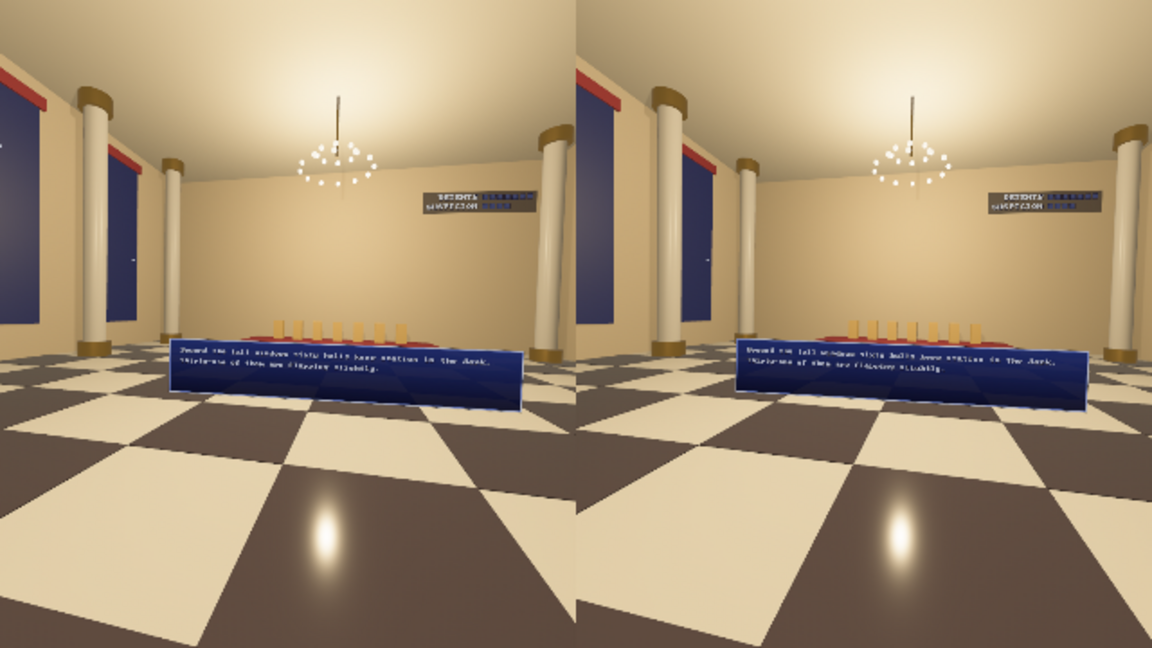
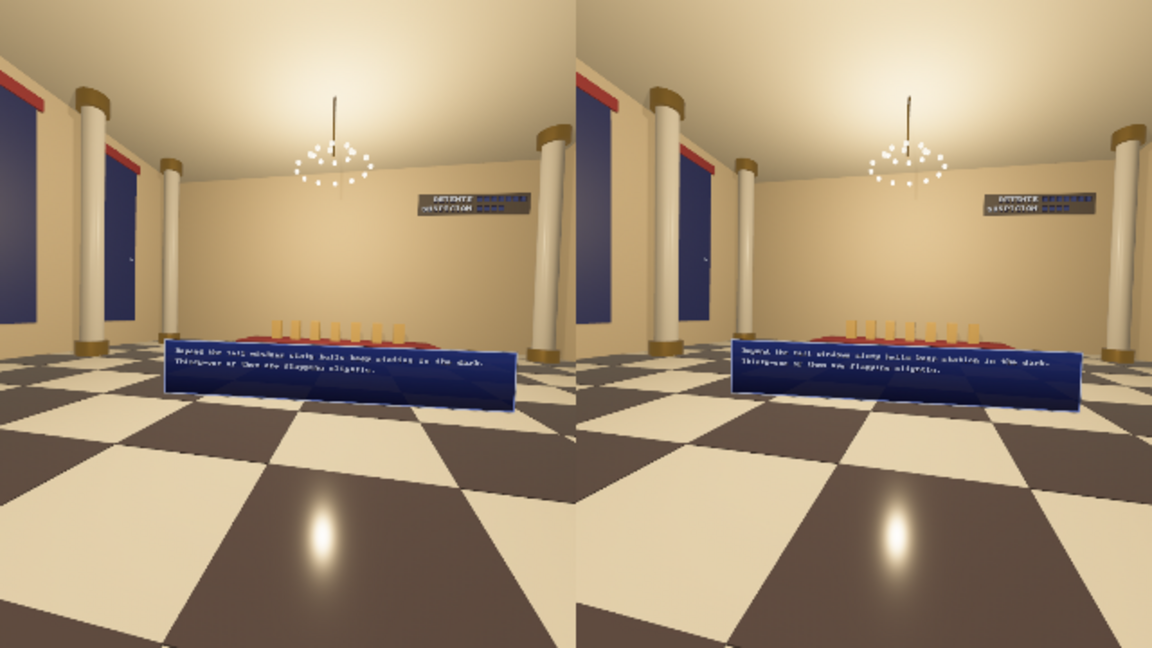
Fix what review found in VR
- the headset sets the pace: the desktop window no longer waits for the
  monitor, and the app keeps running when that window is not in front
- the player is where their head is: real steps move you through the
  place (and stop at walls), and turning pivots about you
- stick pushes and trigger pulls count once however slowly they are made
- a Vive trackpad counts only while pressed
- nothing is read from the headset after its session has stopped
- the text panel keeps clear of the wall you are facing
- --vr says why when it cannot be honoured; the check script stops only
  the service it started and fails on a black picture

Claude-Session: https://claude.ai/code/session_01TzcT1ZMQvoBCyJJ6E8kqD5

diff --git a/src/world3d.rs b/src/world3d.rs
@@ -64,6 +64,10 @@ struct Headset {
     down: bool,
     /// Where the eyes are in the world, for the cast to face.
     eye: Option<Vec3>,
+    /// Where the head is within the tracked space (its floor-level origin is the middle of the play area).
+    local: Vec3,
+    /// How far the head has really moved across the floor since the last frame, in the tracked space.
+    stepped: Vec2,
 }
 
 /// Where the player stands, for whatever carries the headset's viewpoint.
@@ -77,6 +81,8 @@ struct Body {
     fog: Option<(Color, f32, f32)>,
     /// The story's frame was redrawn this frame.
     redrawn: bool,
+    /// The walkable floor of the place.
+    floor: (Vec2, Vec2),
 }
 
 const EYE: f32 = 1.62;
@@ -170,8 +176,8 @@ pub fn run(game: Game, opts: Options) {
     app
         .init_resource::<Headset>()
         .init_resource::<Body>()
-        // keep the story moving when the window is not in front
-        .insert_resource(WinitSettings::game())
+        // keep the story moving when the window is not in front (a headset never waits for the window at all)
+        .insert_resource(if opts.vr && cfg!(feature = "vr") { WinitSettings { focused_mode: bevy::winit::UpdateMode::Continuous, unfocused_mode: bevy::winit::UpdateMode::Continuous } } else { WinitSettings::game() })
         .insert_resource(ClearColor(Color::BLACK))
         .insert_resource(AmbientLight { color: Color::WHITE, brightness: 300.0, ..default() })
         .insert_non_send_resource(runner)
@@ -331,7 +337,10 @@ fn frame(
         let (head_forward, head_right) = (Vec2::new(-facing.sin(), -facing.cos()), Vec2::new(facing.cos(), -facing.sin()));
         let stick_step = (head_forward * headset.stick.y + head_right * headset.stick.x).clamp_length_max(1.0) * 2.0;
         let at = Vec2::new(eye.0.translation.x, eye.0.translation.z);
-        let to = walk(place, at, (keys_step.normalize_or_zero() * speed + stick_step) * dt);
+        // real steps taken in the room move you through the place too (and stop at its walls)
+        let (sin, cos) = run.yaw.sin_cos();
+        let real_step = Vec2::new(headset.stepped.x * cos + headset.stepped.y * sin, -headset.stepped.x * sin + headset.stepped.y * cos);
+        let to = walk(place, at, (keys_step.normalize_or_zero() * speed + stick_step) * dt + real_step);
         // (no swaying in a headset: the world should move only when you do)
         let bob = if place.floating && !headset.active { (time.elapsed_secs() * 0.9).sin() * 0.06 } else { 0.0 };
         eye.0.translation = Vec3::new(to.x, place.spawn.y + bob, to.y);
@@ -340,6 +349,7 @@ fn frame(
         body.yaw = run.yaw;
         // how far the floor runs on ahead, to keep the text panel out of the walls
         let ahead = [(place.max.x - to.x, forward.x), (to.x - place.min.x, -forward.x), (place.max.y - to.y, forward.y), (to.y - place.min.y, -forward.y)];
+        body.floor = (place.min, place.max);
         body.reach = ahead.iter().filter(|(_, along)| *along > 1e-3).map(|(gap, along)| gap / along).fold(f32::MAX, f32::min);
     }
     body.in_place = run.place.is_some();
@@ -1033,12 +1043,22 @@ mod vr {
     use bevy_mod_xr::{camera::XrCamera, session::XrTrackingRoot};
     use bevy_xr_utils::xr_utils_actions::{ActiveSet, XRUtilsAction, XRUtilsActionSet, XRUtilsActionState, XRUtilsActionSystemSet, XRUtilsActionsPlugin, XRUtilsBinding};
 
-    #[derive(Component)]
-    struct WalkAction;
-    #[derive(Component)]
-    struct LookAction;
-    #[derive(Component)]
-    struct AdvanceAction;
+    use bevy::window::PresentMode;
+    use bevy_mod_xr::actions::ActionType;
+    use bevy_mod_xr::session::XrState;
+
+    /// What a controller input is for.
+    #[derive(Component, Clone, Copy, PartialEq)]
+    enum Use {
+        Walk,
+        Look,
+        Advance,
+        /// A trackpad counts only while it is pressed: a thumb resting on it is not a push.
+        WalkPad,
+        WalkPadPressed,
+        LookPad,
+        LookPadPressed,
+    }
     #[derive(Component)]
     struct Panel;
 
@@ -1046,7 +1066,11 @@ mod vr {
     const PANEL: (f32, f32, f32) = (2.0, 2.3, 1.72);
     const SNAP: f32 = PI / 6.0;
 
-    pub fn plugins(app: &mut App, window: WindowPlugin) {
+    pub fn plugins(app: &mut App, mut window: WindowPlugin) {
+        // the headset sets the pace: the desktop window must not make it wait for the monitor
+        if let Some(w) = &mut window.primary_window {
+            w.present_mode = PresentMode::AutoNoVsync;
+        }
         // without a runtime or a headset this falls back to ordinary rendering by itself
         app.add_plugins(add_xr_plugins(DefaultPlugins.build().disable::<PipelinedRenderingPlugin>()).set(window))
             .add_plugins(XRUtilsActionsPlugin)
@@ -1055,85 +1079,109 @@ mod vr {
     }
 
     fn actions(mut commands: Commands) {
+        const STICKS: [&str; 3] = ["/interaction_profiles/oculus/touch_controller", "/interaction_profiles/valve/index_controller", "/interaction_profiles/microsoft/motion_controller"];
+        const VIVE: &str = "/interaction_profiles/htc/vive_controller";
         let set = commands.spawn((XRUtilsActionSet { name: "story".into(), pretty_name: "Story and walking".into(), priority: 0 }, ActiveSet)).id();
-        let sticks = |hand: &str| -> Vec<(&'static str, String)> {
-            vec![
-                ("/interaction_profiles/oculus/touch_controller", format!("/user/hand/{}/input/thumbstick", hand)),
-                ("/interaction_profiles/valve/index_controller", format!("/user/hand/{}/input/thumbstick", hand)),
-                ("/interaction_profiles/microsoft/motion_controller", format!("/user/hand/{}/input/thumbstick", hand)),
-                ("/interaction_profiles/htc/vive_controller", format!("/user/hand/{}/input/trackpad", hand)),
-            ]
-        };
-        let mut triggers: Vec<(&'static str, String)> = Vec::new();
-        for hand in ["left", "right"] {
-            for profile in ["/interaction_profiles/oculus/touch_controller", "/interaction_profiles/valve/index_controller", "/interaction_profiles/microsoft/motion_controller", "/interaction_profiles/htc/vive_controller"] {
-                triggers.push((profile, format!("/user/hand/{}/input/trigger/value", hand)));
-            }
-            triggers.push(("/interaction_profiles/khr/simple_controller", format!("/user/hand/{}/input/select/click", hand)));
-        }
-        let mut make = |name: &str, label: &str, kind: bevy_mod_xr::actions::ActionType, bindings: Vec<(&'static str, String)>| {
-            let action = commands.spawn(XRUtilsAction { action_name: name.to_string().into(), localized_name: label.to_string().into(), action_type: kind }).id();
+        let mut make = |name: &str, label: &str, kind: ActionType, what: Use, bindings: Vec<(&'static str, String)>| {
+            let action = commands.spawn((XRUtilsAction { action_name: name.to_string().into(), localized_name: label.to_string().into(), action_type: kind }, what)).id();
             for (profile, binding) in bindings {
                 let b = commands.spawn(XRUtilsBinding { profile: profile.into(), binding: binding.into() }).id();
                 commands.entity(action).add_child(b);
             }
             commands.entity(set).add_child(action);
-            action
         };
-        let walk = make("walk", "Walk", bevy_mod_xr::actions::ActionType::Vector, sticks("left"));
-        let look = make("look", "Turn, and pick a choice", bevy_mod_xr::actions::ActionType::Vector, sticks("right"));
-        let advance = make("advance", "Advance the story", bevy_mod_xr::actions::ActionType::Float, triggers);
-        commands.entity(walk).insert(WalkAction);
-        commands.entity(look).insert(LookAction);
-        commands.entity(advance).insert(AdvanceAction);
+        let sticks = |hand: &str| STICKS.iter().map(|p| (*p, format!("/user/hand/{}/input/thumbstick", hand))).collect::<Vec<_>>();
+        let mut triggers: Vec<(&'static str, String)> = Vec::new();
+        for hand in ["left", "right"] {
+            for profile in STICKS.iter().chain([&VIVE]) {
+                triggers.push((*profile, format!("/user/hand/{}/input/trigger/value", hand)));
+            }
+            triggers.push(("/interaction_profiles/khr/simple_controller", format!("/user/hand/{}/input/select/click", hand)));
+        }
+        make("walk", "Walk", ActionType::Vector, Use::Walk, sticks("left"));
+        make("look", "Turn, and pick a choice", ActionType::Vector, Use::Look, sticks("right"));
+        make("advance", "Advance the story", ActionType::Float, Use::Advance, triggers);
+        make("walk_pad", "Walk (trackpad)", ActionType::Vector, Use::WalkPad, vec![(VIVE, "/user/hand/left/input/trackpad".into())]);
+        make("walk_pad_pressed", "Walk (press the trackpad)", ActionType::Bool, Use::WalkPadPressed, vec![(VIVE, "/user/hand/left/input/trackpad/click".into())]);
+        make("look_pad", "Turn, and pick a choice (trackpad)", ActionType::Vector, Use::LookPad, vec![(VIVE, "/user/hand/right/input/trackpad".into())]);
+        make("look_pad_pressed", "Turn, and pick (press the trackpad)", ActionType::Bool, Use::LookPadPressed, vec![(VIVE, "/user/hand/right/input/trackpad/click".into())]);
+    }
+
+    /// One push counts once: it fires on passing `high`, and not again until it has come back under `low`.
+    fn once(armed: &mut bool, value: f32, high: f32, low: f32) -> bool {
+        if value < low {
+            *armed = true;
+        }
+        let fire = *armed && value > high;
+        if fire {
+            *armed = false;
+        }
+        fire
     }
 
     /// Controllers and head pose, into what the story's frame understands.
-    #[allow(clippy::type_complexity)]
     fn read(
         mut headset: ResMut<Headset>,
+        state: Option<Res<XrState>>,
         views: Option<Res<OxrViews>>,
         root: Query<&GlobalTransform, With<XrTrackingRoot>>,
-        walk: Query<&XRUtilsActionState, With<WalkAction>>,
-        look: Query<&XRUtilsActionState, With<LookAction>>,
-        advance: Query<&XRUtilsActionState, With<AdvanceAction>>,
-        mut held: Local<(bool, bool, bool)>,
+        inputs: Query<(&Use, &XRUtilsActionState)>,
+        mut armed: Local<[bool; 5]>,
+        mut last: Local<Option<Vec3>>,
     ) {
-        let vector = |q: &Query<&XRUtilsActionState, With<WalkAction>>| q.iter().find_map(|s| if let XRUtilsActionState::Vector(v) = s { Some(Vec2::from(v.current_state)) } else { None });
-        let view = views.as_ref().and_then(|v| v.first().copied());
         *headset = Headset::default();
-        let Some(view) = view else {
-            *held = (false, false, false);
+        // only while a session is really running: what the runtime last said is not news after it has stopped
+        let running = state.map_or(false, |s| *s == XrState::Running);
+        let Some(view) = views.as_ref().filter(|_| running).and_then(|v| v.first().copied()) else {
+            // (nothing is held over to a later session; a trigger already down then must be let go first)
+            *armed = [false; 5];
+            *last = None;
             return;
         };
         headset.active = true;
         // which way the head faces, flattened to the floor
         let ahead = view.pose.orientation.to_quat() * Vec3::NEG_Z;
         headset.heading = if ahead.xz().length() > 0.2 { (-ahead.x).atan2(-ahead.z) } else { 0.0 };
+        let local = view.pose.position.to_vec3();
+        headset.local = local;
+        // real steps; a jump (the runtime recentring) is not one
+        let moved = last.map_or(Vec2::ZERO, |l| (local - l).xz());
+        headset.stepped = if moved.length() < 0.5 { moved } else { Vec2::ZERO };
+        *last = Some(local);
         if let Ok(root) = root.single() {
-            headset.eye = Some(root.transform_point(view.pose.position.to_vec3()));
+            headset.eye = Some(root.transform_point(local));
         }
-        // a little dead space in the middle of each stick
+        let vector = |what: Use| inputs.iter().find(|(u, _)| **u == what).and_then(|(_, s)| if let XRUtilsActionState::Vector(v) = s { Some(Vec2::from(v.current_state)) } else { None }).unwrap_or_default();
+        let level = |what: Use| {
+            inputs.iter().find(|(u, _)| **u == what).map_or(0.0, |(_, s)| match s {
+                XRUtilsActionState::Float(f) => f.current_state,
+                XRUtilsActionState::Bool(b) => b.current_state as u8 as f32,
+                XRUtilsActionState::Vector(_) => 0.0,
+            })
+        };
+        // a little dead space in the middle of each stick; a trackpad only while pressed
         let dead = |v: Vec2| if v.length() < 0.2 { Vec2::ZERO } else { v };
-        headset.stick = dead(vector(&walk).unwrap_or_default());
-        let look = look.iter().find_map(|s| if let XRUtilsActionState::Vector(v) = s { Some(Vec2::from(v.current_state)) } else { None }).unwrap_or_default();
-        let pull = advance.iter().find_map(|s| match s {
-            XRUtilsActionState::Float(f) => Some(f.current_state),
-            XRUtilsActionState::Bool(b) => Some(b.current_state as u8 as f32),
-            _ => None,
-        });
-        // each push of the stick, and each pull of the trigger, counts once
-        let (turning, picking, pulling) = (look.x.abs() > 0.7, look.y.abs() > 0.7 && look.x.abs() < 0.5, pull.unwrap_or(0.0) > 0.6);
-        if turning && !held.0 {
-            headset.turn = -look.x.signum() * SNAP;
+        let pad = |pad: Use, pressed: Use| if level(pressed) > 0.5 { vector(pad) } else { Vec2::ZERO };
+        headset.stick = dead(vector(Use::Walk) + pad(Use::WalkPad, Use::WalkPadPressed)).clamp_length_max(1.0);
+        let look = vector(Use::Look) + pad(Use::LookPad, Use::LookPadPressed);
+        // sideways turns, up and down picks: whichever the push is mostly
+        let (side, updown) = if look.x.abs() >= look.y.abs() { (look.x, 0.0) } else { (0.0, look.y) };
+        if once(&mut armed[0], side, 0.7, 0.35) {
+            headset.turn = -SNAP;
         }
-        if picking && !held.1 {
-            headset.up = look.y > 0.0;
-            headset.down = look.y < 0.0;
+        if once(&mut armed[1], -side, 0.7, 0.35) {
+            headset.turn = SNAP;
         }
-        headset.advance = pulling && !held.2;
-        // let go properly before the next one counts
-        *held = (look.x.abs() > 0.4, look.y.abs() > 0.4, pull.unwrap_or(0.0) > 0.3);
+        headset.up = once(&mut armed[2], updown, 0.7, 0.35);
+        headset.down = once(&mut armed[3], -updown, 0.7, 0.35);
+        headset.advance = once(&mut armed[4], level(Use::Advance), 0.6, 0.3);
+    }
+
+    /// How far the floor runs on from `from` towards `yaw`, in metres.
+    fn clear_ahead(floor: (Vec2, Vec2), from: Vec2, yaw: f32) -> f32 {
+        let dir = Vec2::new(-yaw.sin(), -yaw.cos());
+        let gaps = [(floor.1.x - from.x, dir.x), (from.x - floor.0.x, -dir.x), (floor.1.y - from.y, dir.y), (from.y - floor.0.y, -dir.y)];
+        gaps.iter().filter(|(_, along)| *along > 1e-3).map(|(gap, along)| (gap / along).max(0.0)).fold(f32::MAX, f32::min)
     }
 
     /// Put the headset's viewpoint where the player stands, give its eyes
@@ -1150,17 +1198,24 @@ mod vr {
         frame: Query<&Sprite, With<Overlay>>,
         mut panel: Query<(&mut Transform, &mut Visibility, &MeshMaterial3d<StandardMaterial>), (With<Panel>, Without<XrTrackingRoot>)>,
         mut panel_yaw: Local<Option<f32>>,
+        mut was_in_place: Local<bool>,
     ) {
+        // The player's position is where their head is over the floor. The tracked
+        // space is placed so that the head, wherever it is in the real room, comes
+        // out there: turning then pivots about you, not about the middle of the room.
+        let turn = Quat::from_rotation_y(body.yaw);
+        let dark = Vec3::new(0.0, -1000.0, 0.0);
         if let Ok(mut root) = root.single_mut() {
             if body.in_place {
-                root.translation = body.feet;
-                root.rotation = Quat::from_rotation_y(body.yaw);
-            } else {
-                // nowhere in particular: a dark room with the story on the wall
-                root.translation = Vec3::new(0.0, -1000.0, 0.0);
+                root.translation = body.feet - turn * Vec3::new(headset.local.x, 0.0, headset.local.z);
+                root.rotation = turn;
+            } else if *was_in_place || root.translation.y > -500.0 {
+                // nowhere in particular: a dark room with the story on the wall (set once: you may move about in it)
+                root.translation = dark;
                 root.rotation = Quat::IDENTITY;
             }
         }
+        *was_in_place = body.in_place;
         for (eye, fog, layered) in &eyes {
             // the text panel is for the headset's eyes only (the window has the frame itself)
             if !layered {
@@ -1202,22 +1257,49 @@ mod vr {
             return;
         }
         *vis = Visibility::Visible;
-        let (origin, base_yaw) = if body.in_place { (body.feet, body.yaw) } else { (Vec3::new(0.0, -1000.0, 0.0), 0.0) };
+        let (floor_y, base_yaw) = if body.in_place { (body.feet.y, body.yaw) } else { (dark.y, 0.0) };
+        let head = headset.eye.unwrap_or(Vec3::new(body.feet.x, floor_y + EYE, body.feet.z));
         // it stays put while you look about, and comes round once you have clearly turned away from it
         let facing = base_yaw + headset.heading;
         let yaw = panel_yaw.get_or_insert(facing);
         let off = (facing - *yaw + PI).rem_euclid(TAU) - PI;
-        if off.abs() > 0.9 || !body.in_place {
+        if off.abs() > 0.9 {
             *yaw = facing;
         }
-        // nearer (and smaller, so it looks the same) where a wall is close
-        let distance = if body.in_place { PANEL.0.min(body.reach - 0.15).max(0.5) } else { PANEL.0 };
+        // nearer (and smaller, so it looks the same) where a wall is close in that direction
+        let distance = if body.in_place { PANEL.0.min(clear_ahead(body.floor, head.xz(), *yaw) - 0.15).max(0.5) } else { PANEL.0 };
         let size = PANEL.1 * distance / PANEL.0 * if body.in_place { 1.0 } else { 1.5 };
         let ahead = Vec3::new(-yaw.sin(), 0.0, -yaw.cos());
-        let head = headset.eye.unwrap_or(origin + Vec3::Y * EYE);
-        tf.translation = Vec3::new(head.x, origin.y + PANEL.2 * distance / PANEL.0 + (1.0 - distance / PANEL.0) * EYE, head.z) + ahead * distance;
+        tf.translation = Vec3::new(head.x, floor_y + PANEL.2 * distance / PANEL.0 + (1.0 - distance / PANEL.0) * EYE, head.z) + ahead * distance;
         tf.rotation = Quat::from_rotation_y(*yaw);
         tf.scale = Vec3::splat(size);
+    }
+
+    #[cfg(test)]
+    mod tests {
+        use super::*;
+
+        #[test]
+        fn a_slow_pull_counts_once_and_a_held_one_does_not_repeat() {
+            let mut armed = false;
+            // down already when the session starts: nothing until it has been let go
+            assert!(!once(&mut armed, 1.0, 0.6, 0.3));
+            assert!(!once(&mut armed, 0.1, 0.6, 0.3));
+            // a pull that takes several frames to get there
+            let fired: Vec<bool> = [0.2, 0.45, 0.7, 1.0, 1.0, 0.5, 0.9, 0.2, 0.8].iter().map(|v| once(&mut armed, *v, 0.6, 0.3)).collect();
+            assert_eq!(fired, [false, false, true, false, false, false, false, false, true]);
+        }
+
+        #[test]
+        fn the_panel_keeps_clear_of_the_wall_you_face() {
+            let floor = (Vec2::splat(-4.0), Vec2::splat(4.0));
+            // facing -z from the middle, then from near that wall, then along it
+            assert!((clear_ahead(floor, Vec2::ZERO, 0.0) - 4.0).abs() < 1e-4);
+            assert!((clear_ahead(floor, Vec2::new(0.0, -3.4), 0.0) - 0.6).abs() < 1e-4);
+            assert!((clear_ahead(floor, Vec2::new(0.0, -3.4), PI / 2.0) - 4.0).abs() < 1e-3);
+            // outside the floor (leaning through a wall): never negative
+            assert!(clear_ahead(floor, Vec2::new(0.0, -4.5), 0.0) >= 0.0);
+        }
     }
 }
 

diff --git a/src/main.rs b/src/main.rs
@@ -166,6 +166,13 @@ fn main() {
         game.start_at(label);
     }
     // a story with places marked 3D is shown by the 3D engine, if this build has one
+    if flag("--vr") {
+        if !cfg!(feature = "vr") {
+            eprintln!("--vr needs a build with the VR feature: cargo run --release --features vr -- --vr");
+        } else if flag("--2d") {
+            eprintln!("--2d and --vr were both given: showing the ordinary 2D window (leave out --2d for the headset)");
+        }
+    }
     // (in a headset every story is shown by the 3D engine: paintings hang on a panel)
     if (game.has_world() || (flag("--vr") && cfg!(feature = "vr"))) && !flag("--2d") {
         #[cfg(feature = "world3d")]

diff --git a/README.md b/README.md
@@ -253,7 +253,7 @@ have clearly turned away. Near a wall it moves closer rather than into it.
 
 | Control | Does |
 |---|---|
-| left stick (or trackpad) | walk, in the direction you are looking |
+| left stick (on Vive wands: press the left trackpad) | walk, in the direction you are looking |
 | right stick, sideways | turn in 30 degree steps |
 | right stick, up / down | pick a choice |
 | either trigger | advance, confirm |
@@ -263,6 +263,9 @@ Mixed Reality controllers, and for OpenXR's simple controller (advance
 only). The keyboard and mouse keep working, and the window on the desktop
 shows the ordinary view. Comfort choices: turning is in steps, walking is at
 a steady pace, and the gentle swaying of the zero-gravity room is left out.
+Real steps in your room move you through the place too and stop at its
+walls, and turning pivots about where you stand, not about the middle of
+your play area.
 
 Places that a story leaves as paintings, and the title screen and chapter
 cards, are shown on a large screen in the dark, so any story can be played
